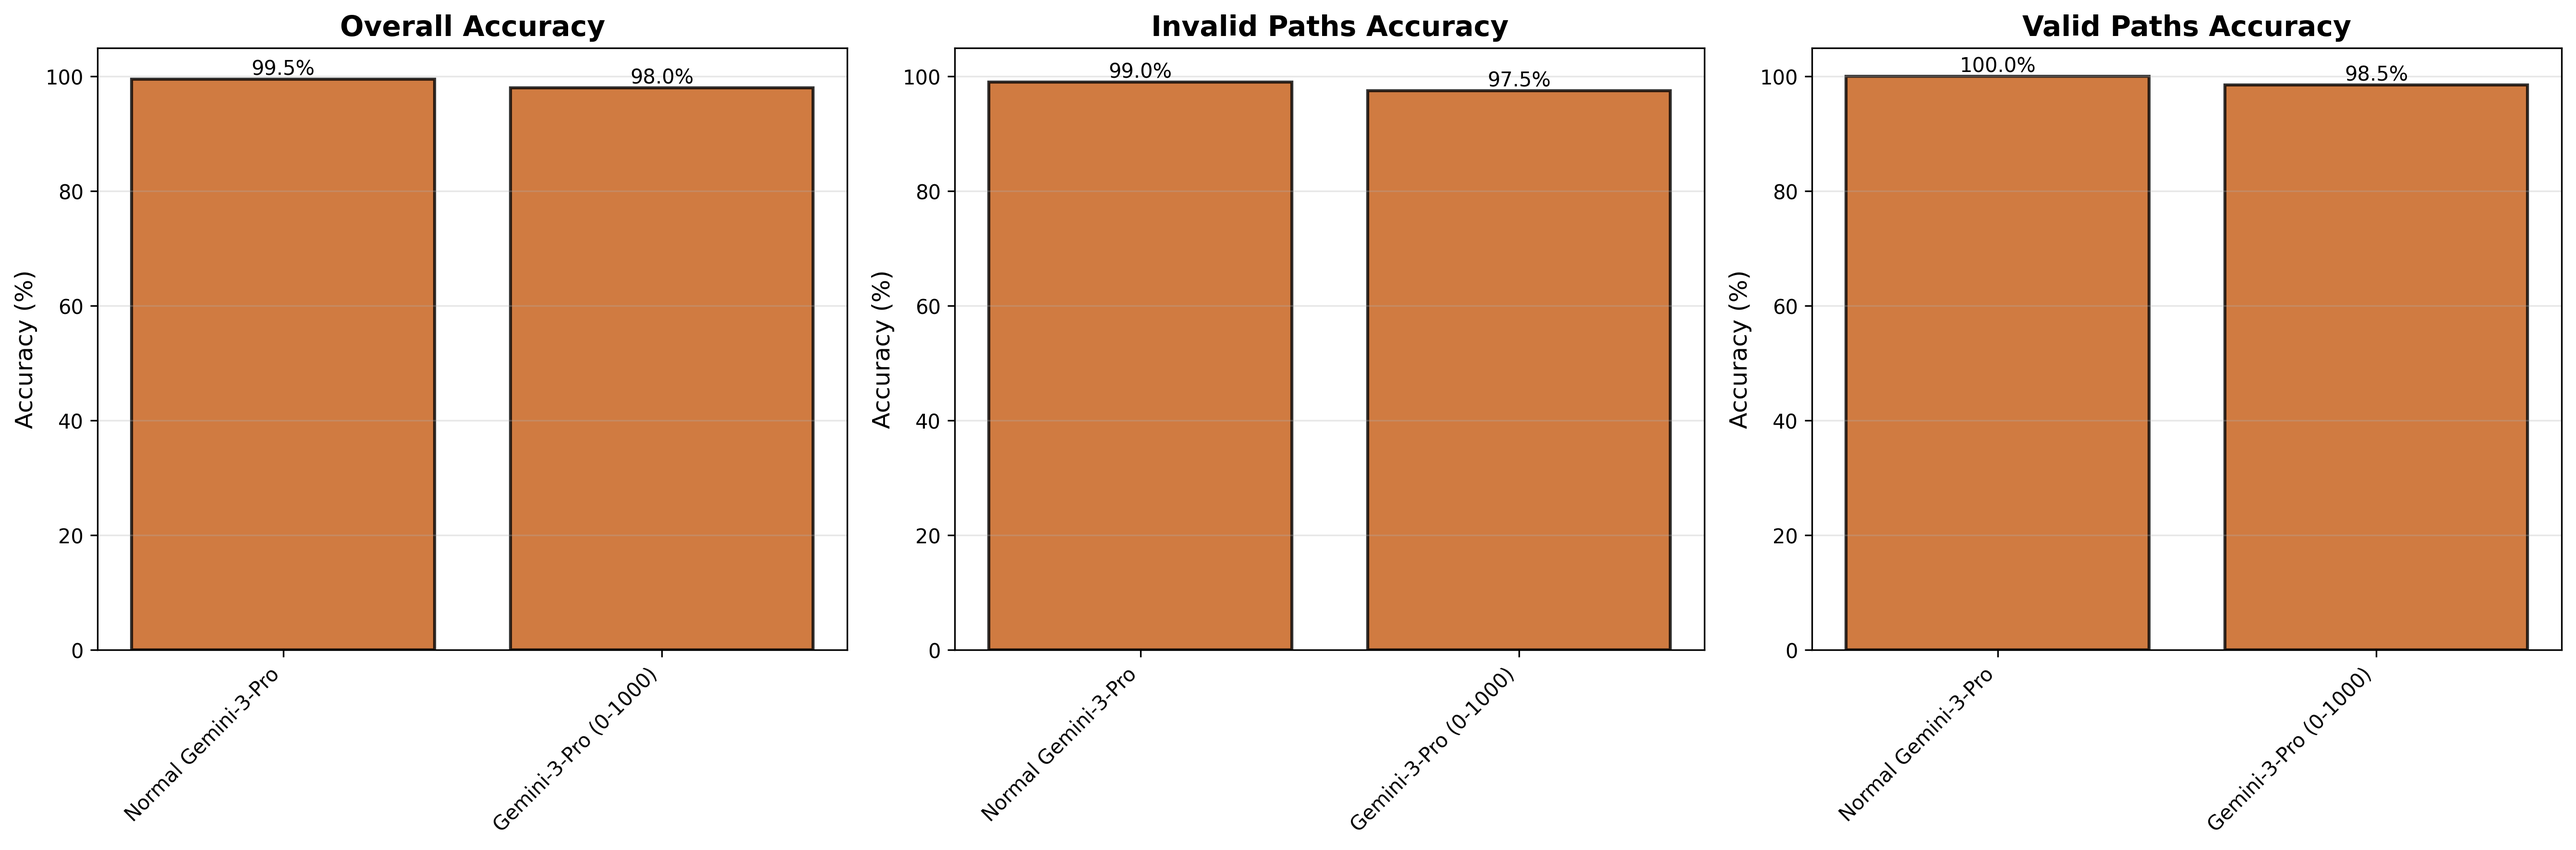
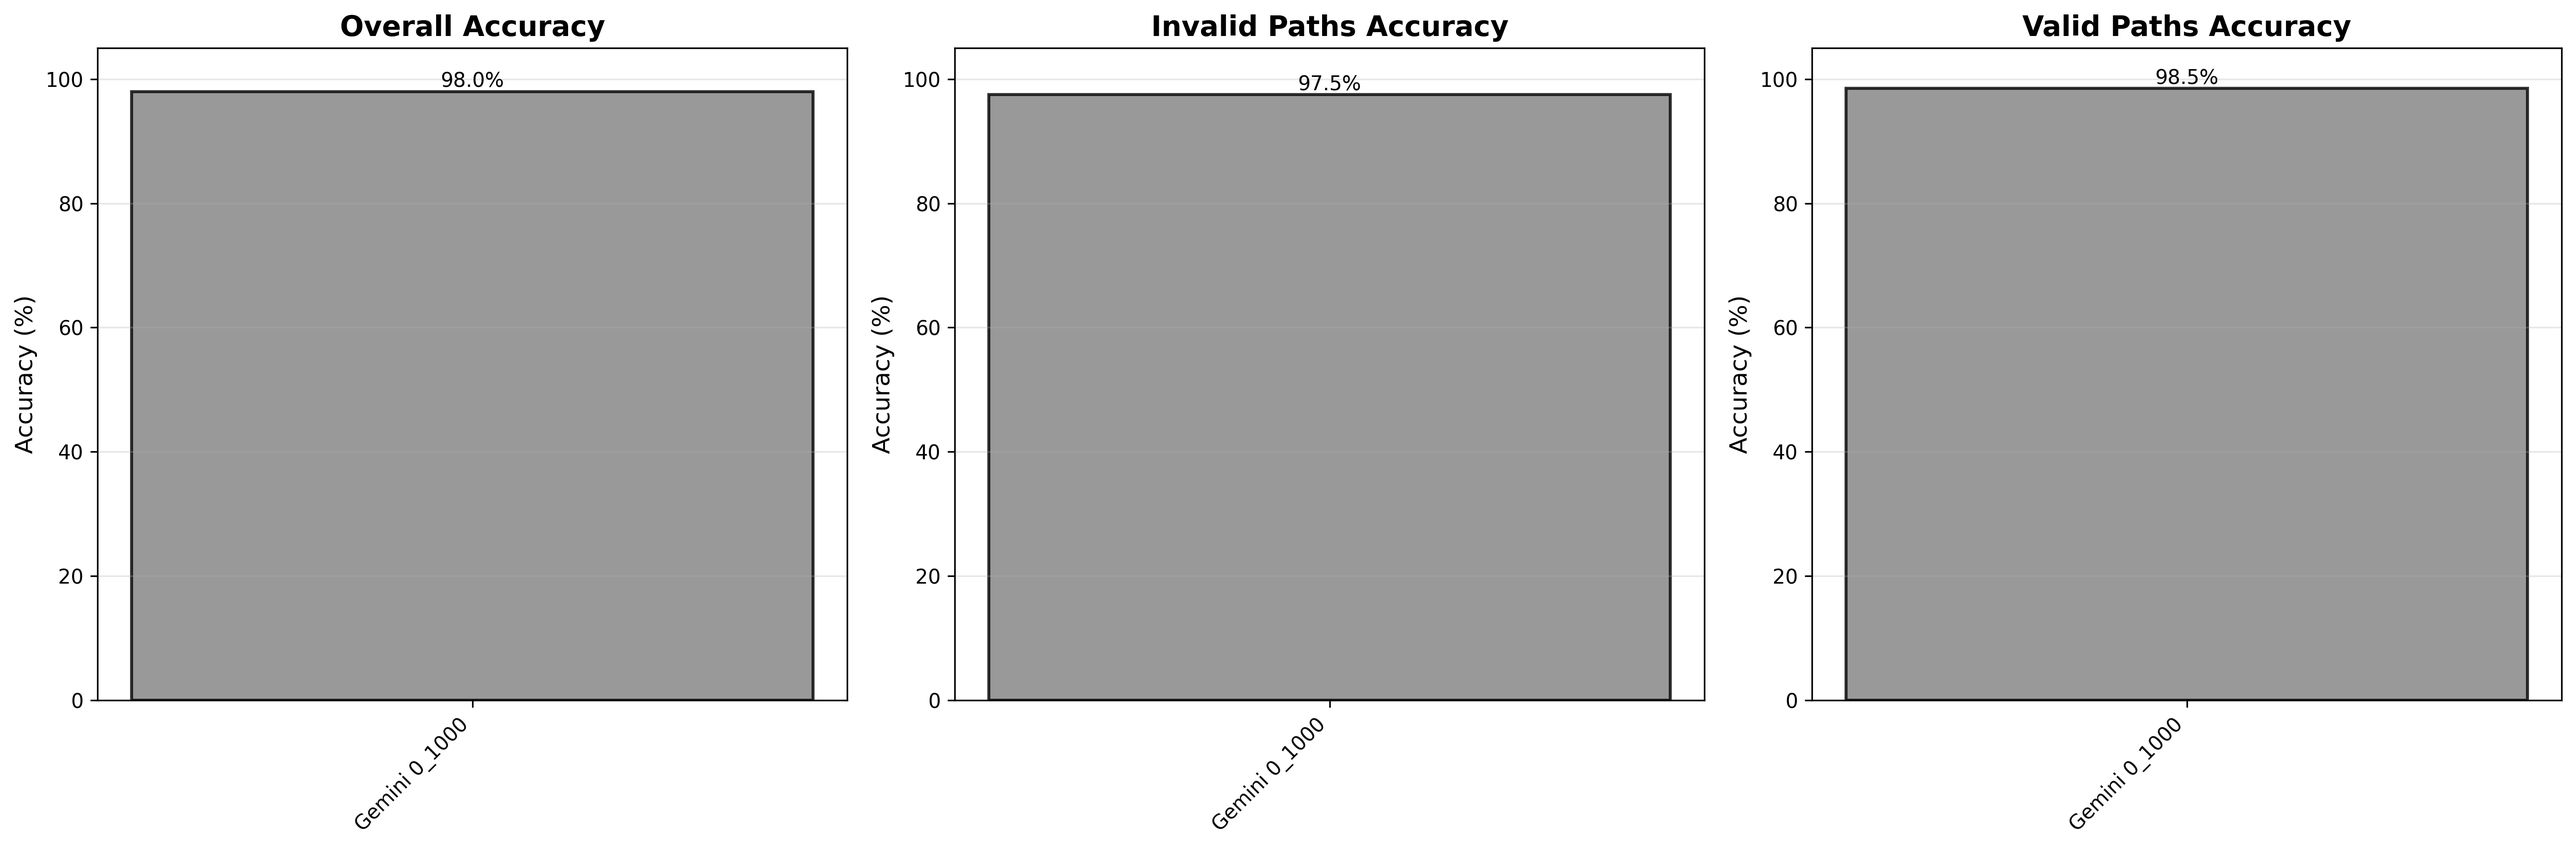
boostrap maze

diff --git a/analysis/maze/analyze_maze_bootstrap.py b/analysis/maze/analyze_maze_bootstrap.py
@@ -1,0 +1,217 @@
+#!/usr/bin/env python3
+"""
+Bootstrap analysis for maze results.
+Randomly partitions results into K groups and reports mean/std accuracy.
+
+Example usage:
+    python3 analysis/maze/analyze_maze_bootstrap.py ":gemini3pro_gridworld_paths_0_to_1000:Gemini 0_1000"
+"""
+
+import json
+import re
+import sys
+import random
+import numpy as np
+from pathlib import Path
+from typing import Dict, List
+
+# Reuse extraction logic from the main analysis script
+from analyze_maze_results import (
+    extract_maze_id,
+    extract_answer_from_response,
+)
+
+K = 4
+GROUP_SIZE = 100
+
+
+def load_results(dir_path: Path, expected_answer: str) -> List[Dict]:
+    """Load all item_*.json results from a directory and evaluate correctness."""
+    items = []
+    for json_file in sorted(dir_path.glob('item_*.json')):
+        try:
+            with open(json_file, 'r') as f:
+                data = json.load(f)
+            model_output = data.get('model_output_full', '')
+            extracted = extract_answer_from_response(model_output)
+            items.append({
+                'file': json_file.name,
+                'expected': expected_answer,
+                'extracted': extracted,
+                'correct': extracted == expected_answer,
+            })
+        except Exception as e:
+            print(f"Error processing {json_file}: {e}")
+    return items
+
+
+def load_jsonl_results(jsonl_path: Path, expected_answer: str) -> List[Dict]:
+    """Load results from a JSONL file (e.g. ViLaSR)."""
+    items = []
+    try:
+        with open(jsonl_path, 'r') as f:
+            for line in f:
+                data = json.loads(line.strip())
+                model_output = data.get('model_output', '')
+                extracted = extract_answer_from_response(model_output)
+                items.append({
+                    'file': data.get('image_path', ''),
+                    'expected': expected_answer,
+                    'extracted': extracted,
+                    'correct': extracted == expected_answer,
+                })
+    except Exception as e:
+        print(f"Error reading {jsonl_path}: {e}")
+    return items
+
+
+def load_thinkmorph_results(dir_path: Path, expected_answer: str) -> List[Dict]:
+    """Load results from ThinkMorph sample directories with text_data.json."""
+    items = []
+    for sample_dir in sorted(dir_path.iterdir()):
+        if not sample_dir.is_dir() or not sample_dir.name.startswith('sample_'):
+            continue
+        json_file = sample_dir / 'text_data.json'
+        if not json_file.exists():
+            continue
+        try:
+            with open(json_file, 'r') as f:
+                data = json.load(f)
+            text_outputs = data.get('text_outputs', [])
+            model_output = '\n'.join(text_outputs) if text_outputs else ''
+            extracted = extract_answer_from_response(model_output)
+            items.append({
+                'file': sample_dir.name,
+                'expected': expected_answer,
+                'extracted': extracted,
+                'correct': extracted == expected_answer,
+            })
+        except Exception as e:
+            print(f"Error processing {json_file}: {e}")
+    return items
+
+
+def load_consistency_results(json_path: Path, expected_answer: str) -> List[Dict]:
+    """Load results from a consistency-check JSON array file."""
+    items = []
+    try:
+        with open(json_path, 'r') as f:
+            data = json.load(f)
+        if not isinstance(data, list):
+            return items
+        for entry in data:
+            response = entry.get('consistency_check_response', '')
+            extracted = extract_answer_from_response(response)
+            items.append({
+                'file': f"index_{entry.get('index')}",
+                'expected': expected_answer,
+                'extracted': extracted,
+                'correct': extracted == expected_answer,
+            })
+    except Exception as e:
+        print(f"Error reading {json_path}: {e}")
+    return items
+
+
+def compute_accuracy(items: List[Dict]) -> float:
+    if not items:
+        return 0.0
+    return sum(1 for it in items if it['correct']) / len(items) * 100
+
+
+def main():
+    if len(sys.argv) < 2:
+        print("Usage: python analyze_maze_bootstrap.py <parent_dir:model_name:label>")
+        sys.exit(1)
+
+    parts = sys.argv[1].split(':')
+    if len(parts) == 3:
+        parent_dir, model_name, label = parts
+        fmt = 'json'
+    elif len(parts) == 4:
+        parent_dir, model_name, label, fmt = parts
+    else:
+        print("Expected format: parent_dir:model_name:label[:format]")
+        print("  format: json (default), jsonl, thinkmorph, or consistency")
+        sys.exit(1)
+
+    # Parse remaining args for flags
+    remaining = sys.argv[2:]
+    base_dir = 'gemini'
+    seed = 42
+    for arg in remaining:
+        if arg.startswith('--base-dir='):
+            base_dir = arg.split('=', 1)[1]
+        else:
+            seed = int(arg)
+    random.seed(seed)
+    np.random.seed(seed)
+
+    base_path = Path(f'/Users/log/Github/sketchvlm/results/mix_eval/maze_v2/{base_dir}')
+
+    print(f"Loading results for: {label}")
+
+    def resolve_paths(suffix_invalid, suffix_valid):
+        if parent_dir:
+            return base_path / parent_dir / suffix_invalid, base_path / parent_dir / suffix_valid
+        return base_path / suffix_invalid, base_path / suffix_valid
+
+    if fmt == 'consistency':
+        inv_path, val_path = resolve_paths(f'{model_name}_invalid.json', f'{model_name}_valid.json')
+        invalid_items = load_consistency_results(inv_path, 'invalid')
+        valid_items = load_consistency_results(val_path, 'valid')
+    elif fmt == 'jsonl':
+        inv_path, val_path = resolve_paths(f'{model_name}_invalid/results.jsonl', f'{model_name}_valid/results.jsonl')
+        invalid_items = load_jsonl_results(inv_path, 'invalid')
+        valid_items = load_jsonl_results(val_path, 'valid')
+    elif fmt == 'thinkmorph':
+        inv_path, val_path = resolve_paths(f'{model_name}_invalid', f'{model_name}_valid')
+        invalid_items = load_thinkmorph_results(inv_path, 'invalid')
+        valid_items = load_thinkmorph_results(val_path, 'valid')
+    else:
+        inv_path, val_path = resolve_paths(f'{model_name}_invalid', f'{model_name}_valid')
+        invalid_items = load_results(inv_path, 'invalid')
+        valid_items = load_results(val_path, 'valid')
+    all_items = invalid_items + valid_items
+    print(f"  Loaded {len(invalid_items)} invalid + {len(valid_items)} valid = {len(all_items)} total\n")
+
+    expected_total = K * GROUP_SIZE
+    if len(all_items) < expected_total:
+        print(f"Error: need {expected_total} items but only have {len(all_items)}")
+        sys.exit(1)
+
+    # Shuffle and partition into K groups of GROUP_SIZE
+    random.shuffle(all_items)
+    groups = [all_items[i * GROUP_SIZE:(i + 1) * GROUP_SIZE] for i in range(K)]
+
+    overall_accs = []
+    invalid_accs = []
+    valid_accs = []
+
+    print(f"{'Group':<8} {'Total':<8} {'Inv':<8} {'Val':<8} {'Overall%':<12} {'Invalid%':<12} {'Valid%':<12}")
+    print("-" * 68)
+
+    for i, group in enumerate(groups):
+        inv = [it for it in group if it['expected'] == 'invalid']
+        val = [it for it in group if it['expected'] == 'valid']
+
+        oa = compute_accuracy(group)
+        ia = compute_accuracy(inv)
+        va = compute_accuracy(val)
+
+        overall_accs.append(oa)
+        invalid_accs.append(ia)
+        valid_accs.append(va)
+
+        print(f"{i + 1:<8} {len(group):<8} {len(inv):<8} {len(val):<8} {oa:>8.2f}%    {ia:>8.2f}%    {va:>8.2f}%")
+
+    print("-" * 68)
+    print(f"\n{'Metric':<12} {'Mean':<12} {'Std':<12}")
+    print("-" * 36)
+    print(f"{'Overall':<12} {np.mean(overall_accs):>8.2f}%    {np.std(overall_accs):>8.2f}%")
+    print(f"{'Invalid':<12} {np.mean(invalid_accs):>8.2f}%    {np.std(invalid_accs):>8.2f}%")
+    print(f"{'Valid':<12} {np.mean(valid_accs):>8.2f}%    {np.std(valid_accs):>8.2f}%")
+
+
+if __name__ == '__main__':
+    main()
